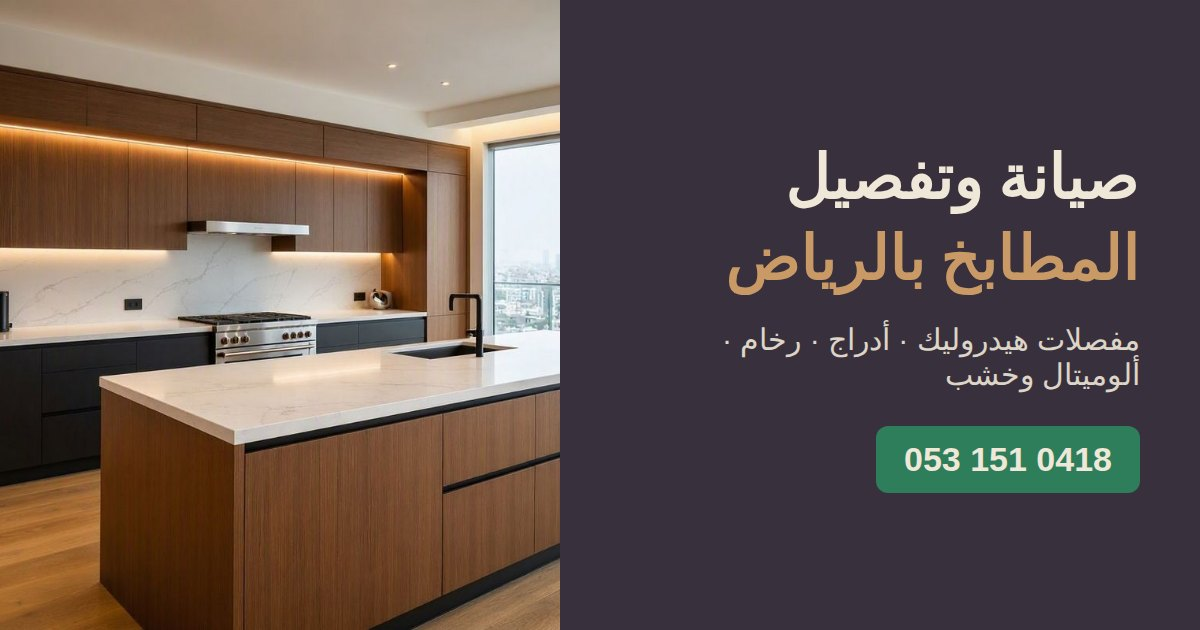
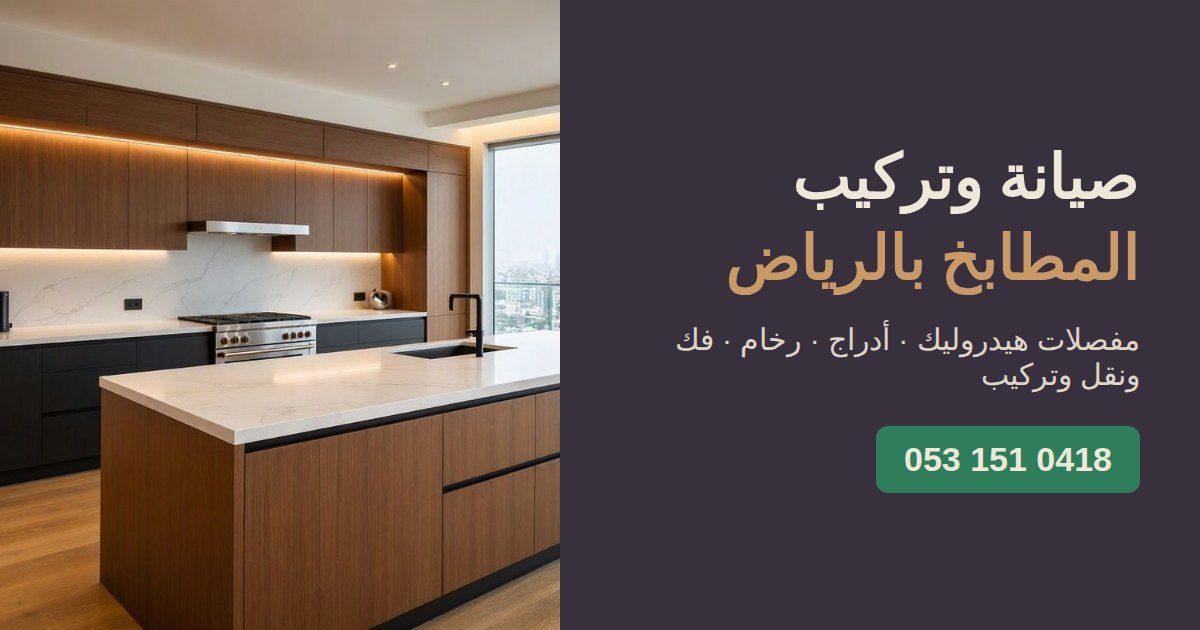
Remove custom kitchen building; focus on maintenance and installation
The business does not offer custom kitchen building. Replace every mention
(title, meta, schema, hero, services, FAQ, footer, OG image) and turn the
custom-building service into a dismantle/move/install service.

Claude-Session: https://claude.ai/code/session_01PCW88oqZVca2CzYH5qtRU7

Changed region(s): [[0.6475, 0.2413, 0.7708, 0.3619], [0.8017, 0.573, 0.9558, 0.6333], [0.555, 0.5127, 0.5858, 0.573]]

diff --git a/index.html b/index.html
@@ -5,11 +5,11 @@
 <meta name="viewport" content="width=device-width, initial-scale=1, viewport-fit=cover">
 
 <!-- SEO Meta Tags -->
-<title>صيانة وتفصيل مطابخ بالرياض | ألمنيوم وخشب – أبو غزل</title>
-<meta name="description" content="فني صيانة وتفصيل مطابخ بالرياض: تصليح الأدراج، مفصلات هيدروليك، صيانة الرخام، وتفصيل مطابخ ألمنيوم وخشب بالمقاس. اتصل 0531510418">
+<title>صيانة وتركيب مطابخ بالرياض | ألمنيوم وخشب – أبو غزل</title>
+<meta name="description" content="فني صيانة وتركيب مطابخ بالرياض: تصليح الأدراج، مفصلات هيدروليك، صيانة الرخام، وفك وتركيب ونقل مطابخ الألمنيوم والخشب. اتصل 0531510418">
 <meta name="author" content="أبو غزل">
 <meta name="copyright" content="© 2026 أبو غزل — جميع الحقوق محفوظة">
-<meta name="keywords" content="أبو غزل مطابخ, صيانة مطابخ بالرياض, تفصيل مطابخ بالرياض, تركيب مطابخ بالرياض, فني مطابخ الرياض, تركيب مفصلات هيدروليك, تصليح أدراج المطابخ, صيانة رخام المطابخ, مطابخ ألوميتال الرياض, مطابخ خشب حسب المقاس, نجار مطابخ الرياض, فك وتركيب مطابخ">
+<meta name="keywords" content="أبو غزل مطابخ, صيانة مطابخ بالرياض, تركيب مطابخ بالرياض, فني مطابخ الرياض, تركيب مفصلات هيدروليك, تصليح أدراج المطابخ, صيانة رخام المطابخ, مطابخ ألوميتال الرياض, صيانة مطابخ ألمنيوم, نقل مطابخ الرياض, نجار مطابخ الرياض, فك وتركيب مطابخ">
 <meta name="robots" content="index, follow, max-image-preview:large">
 <meta name="theme-color" content="#39303E">
 <meta name="geo.region" content="SA-01">
@@ -22,17 +22,17 @@
 <!-- Open Graph / WhatsApp Sharing -->
 <meta property="og:type" content="website">
 <meta property="og:locale" content="ar_SA">
-<meta property="og:site_name" content="أبو غزل — صيانة وتفصيل المطابخ بالرياض">
+<meta property="og:site_name" content="أبو غزل — صيانة وتركيب المطابخ بالرياض">
 <meta property="og:url" content="https://kitch.abads.site/">
-<meta property="og:title" content="صيانة وتفصيل وتركيب المطابخ بالرياض | أبو غزل">
-<meta property="og:description" content="أدراج مكسورة؟ أبواب ساقطة؟ رخام متشقق؟ فني مطابخ متخصص بالرياض لصيانة وتفصيل مطابخ الألوميتال والخشب بمفصلات هيدروليك أصلية.">
+<meta property="og:title" content="صيانة وتركيب المطابخ بالرياض | أبو غزل">
+<meta property="og:description" content="أدراج مكسورة؟ أبواب ساقطة؟ رخام متشقق؟ فني مطابخ متخصص بالرياض لصيانة وتركيب مطابخ الألوميتال والخشب بمفصلات هيدروليك أصلية.">
 <meta property="og:image" content="https://kitch.abads.site/og-image.jpg">
 <meta property="og:image:width" content="1200">
 <meta property="og:image:height" content="630">
-<meta property="og:image:alt" content="صيانة وتفصيل المطابخ بالرياض — أبو غزل 0531510418">
+<meta property="og:image:alt" content="صيانة وتركيب المطابخ بالرياض — أبو غزل 0531510418">
 <meta name="twitter:card" content="summary_large_image">
-<meta name="twitter:title" content="صيانة وتفصيل وتركيب المطابخ بالرياض">
-<meta name="twitter:description" content="فني مطابخ متخصص بالرياض: مفصلات هيدروليك، أدراج، رخام، تفصيل ألوميتال وخشب.">
+<meta name="twitter:title" content="صيانة وتركيب المطابخ بالرياض">
+<meta name="twitter:description" content="فني مطابخ متخصص بالرياض: مفصلات هيدروليك، أدراج، رخام، فك وتركيب مطابخ.">
 <meta name="twitter:image" content="https://kitch.abads.site/og-image.jpg">
 
 <!-- Structured Data (LocalBusiness + Services + FAQ) -->
@@ -43,9 +43,9 @@
     {
       "@type": "HomeAndConstructionBusiness",
       "@id": "https://kitch.abads.site/#business",
-      "name": "أبو غزل — فني تفصيل وتركيب وصيانة المطابخ بالرياض",
+      "name": "أبو غزل — فني صيانة وتركيب المطابخ بالرياض",
       "alternateName": "أبو غزل للمطابخ",
-      "description": "صيانة مطابخ بالرياض، تفصيل مطابخ ألوميتال وخشب حسب المقاس، تركيب مفصلات هيدروليك، تصليح أدراج ورخام المطابخ، وتغيير الأرفف والإكسسوارات.",
+      "description": "صيانة مطابخ الألمنيوم والخشب بالرياض، فك وتركيب ونقل المطابخ، تركيب مفصلات هيدروليك، تصليح أدراج ورخام المطابخ، وتغيير الأرفف والإكسسوارات.",
       "image": [
         "https://kitch.abads.site/og-image.jpg",
         "https://kitch.abads.site/img/kitchen-island-marble.jpg",
@@ -94,9 +94,8 @@
           {"@type": "Offer", "itemOffered": {"@type": "Service", "name": "تركيب وتعديل مفصلات هيدروليك", "description": "استبدال المفصلات التالفة بمفصلات هيدروليك ناعمة الإغلاق وضبط محاذاة الأبواب."}},
           {"@type": "Offer", "itemOffered": {"@type": "Service", "name": "تصليح أدراج المطابخ", "description": "تغيير سحابات ومسارات الأدراج المكسورة بمسارات تلسكوبية وهيدروليك."}},
           {"@type": "Offer", "itemOffered": {"@type": "Service", "name": "صيانة رخام المطابخ", "description": "معالجة الشروخ وتعبئة الفواصل وتلميع وتغيير رخام وجرانيت أسطح المطابخ."}},
-          {"@type": "Offer", "itemOffered": {"@type": "Service", "name": "تفصيل مطابخ ألوميتال وخشب", "description": "تفصيل مطابخ حسب المقاس بخامات ألوميتال وخشب وأكريليك مع التركيب."}},
           {"@type": "Offer", "itemOffered": {"@type": "Service", "name": "تغيير أرفف وإكسسوارات المطابخ", "description": "تركيب أرفف ومقابض وسلال وزوايا ذكية وإنارة ليد داخل الخزائن."}},
-          {"@type": "Offer", "itemOffered": {"@type": "Service", "name": "فك وتركيب ونقل المطابخ", "description": "فك المطبخ وتغليفه ونقله وإعادة تركيبه بين أحياء الرياض."}}
+          {"@type": "Offer", "itemOffered": {"@type": "Service", "name": "فك وتركيب ونقل المطابخ", "description": "فك المطبخ وتغليفه ونقله وإعادة تركيبه بين أحياء الرياض، مع إدخال غسالة الصحون وتركيب الشفاط."}}
         ]
       }
     },
@@ -104,7 +103,7 @@
       "@type": "WebSite",
       "@id": "https://kitch.abads.site/#website",
       "url": "https://kitch.abads.site/",
-      "name": "أبو غزل — صيانة وتفصيل المطابخ بالرياض",
+      "name": "أبو غزل — صيانة وتركيب المطابخ بالرياض",
       "inLanguage": "ar-SA",
       "publisher": {"@id": "https://kitch.abads.site/#business"},
       "copyrightHolder": {"@id": "https://kitch.abads.site/#business"},
@@ -125,8 +124,8 @@
         },
         {
           "@type": "Question",
-          "name": "هل تفصلون مطابخ ألوميتال وخشب حسب المقاس؟",
-          "acceptedAnswer": {"@type": "Answer", "text": "نعم، نأخذ المقاسات في موقعك ونصمم المطبخ بخامات ألوميتال أو خشب أو أكريليك حسب رغبتك وميزانيتك، ثم نركبه كاملاً مع الإكسسوارات."}
+          "name": "هل تفكون المطبخ وتنقلونه وتركبونه في البيت الجديد؟",
+          "acceptedAnswer": {"@type": "Answer", "text": "نعم، نفك المطبخ بعناية ونغلّفه وننقله داخل الرياض، ثم نعيد تركيبه في موقعه الجديد مع ضبط الأبواب والأدراج وتركيب الشفاط وإدخال غسالة الصحون."}
         },
         {
           "@type": "Question",
@@ -895,7 +894,7 @@
   <div class="wrap">
     <div class="brand">
       <svg viewBox="0 0 32 32" aria-hidden="true"><rect x="3" y="5" width="26" height="22" rx="4" fill="#C99A66"/><path d="M3 15h26M16 15v12" stroke="#39303E" stroke-width="2"/><rect x="9" y="9" width="6" height="2" rx="1" fill="#39303E"/><rect x="12" y="19" width="2" height="5" rx="1" fill="#39303E"/><rect x="18" y="19" width="2" height="5" rx="1" fill="#39303E"/></svg>
-      أبو غزل · تفصيل وصيانة المطابخ بالرياض
+      أبو غزل · صيانة وتركيب المطابخ بالرياض
     </div>
     <nav class="contacts" aria-label="التواصل">
       <a class="contact-link" href="tel:+966531510418">
@@ -916,14 +915,14 @@
     <div class="wrap">
       <div>
         <div class="eyebrow"><span class="dot" aria-hidden="true"></span> فني مطابخ متاح اليوم في جميع أحياء الرياض</div>
-        <h1>صيانة وتفصيل وتركيب المطابخ بالرياض — <span>مطبخك يعود أقوى وأجمل من أول زيارة</span></h1>
+        <h1>صيانة وتركيب المطابخ بالرياض — <span>مطبخك يعود أقوى وأجمل من أول زيارة</span></h1>
         <p class="lead">
-          أدراج مكسورة لا تنفتح؟ أبواب خزائن ساقطة أو مفصلات تالفة؟ رخام متشقق أو مطبخ يحتاج تجديداً كاملاً؟ نحن <strong>فنيو صيانة وتفصيل المطابخ بالرياض</strong>، نصلح مطابخ الخشب والألوميتال، ونركب مفصلات ومسارات هيدروليك أصلية، ونفصّل لك مطبخاً جديداً بالمقاس الدقيق لمساحتك.
+          أدراج مكسورة لا تنفتح؟ أبواب خزائن ساقطة أو مفصلات تالفة؟ رخام متشقق أو مطبخ تريد نقله وتركيبه؟ نحن <strong>فنيو صيانة وتركيب المطابخ بالرياض</strong>، نصلح مطابخ الخشب والألوميتال، ونركب مفصلات ومسارات هيدروليك أصلية، ونفك مطبخك وننقله ونركبه باحتراف بدون خدوش.
         </p>
         <ul class="hero-points">
           <li><svg viewBox="0 0 24 24" fill="none" stroke="currentColor" stroke-width="3" aria-hidden="true"><path d="M5 12l5 5L20 7"/></svg>مفصلات هيدروليك أصلية</li>
           <li><svg viewBox="0 0 24 24" fill="none" stroke="currentColor" stroke-width="3" aria-hidden="true"><path d="M5 12l5 5L20 7"/></svg>معاينة وتسعير عبر واتساب</li>
-          <li><svg viewBox="0 0 24 24" fill="none" stroke="currentColor" stroke-width="3" aria-hidden="true"><path d="M5 12l5 5L20 7"/></svg>تفصيل ألوميتال وخشب بالمقاس</li>
+          <li><svg viewBox="0 0 24 24" fill="none" stroke="currentColor" stroke-width="3" aria-hidden="true"><path d="M5 12l5 5L20 7"/></svg>فك وتركيب ونقل المطابخ</li>
           <li><svg viewBox="0 0 24 24" fill="none" stroke="currentColor" stroke-width="3" aria-hidden="true"><path d="M5 12l5 5L20 7"/></svg>قطع غيار أصلية وتركيب بدون خدوش</li>
         </ul>
         <div class="cta-row">
@@ -940,7 +939,7 @@
       <div class="hero-art">
         <picture>
           <source type="image/webp" srcset="img/kitchen-island-marble-640.webp 640w, img/kitchen-island-marble-900.webp 900w, img/kitchen-island-marble-1200.webp 1200w" sizes="(max-width: 900px) 100vw, 560px">
-          <img src="img/kitchen-island-marble.jpg" width="1200" height="800" alt="تفصيل وتركيب مطبخ خشب بجزيرة رخام وإنارة ليد في الرياض" fetchpriority="high">
+          <img src="img/kitchen-island-marble.jpg" width="1200" height="800" alt="صيانة وتركيب مطبخ خشب بجزيرة رخام وإنارة ليد في الرياض" fetchpriority="high">
         </picture>
         <div class="hero-badge" aria-hidden="true"><b>✔</b><span>خبرة طويلة في مطابخ<br>الألمنيوم والخشب</span></div>
       </div>
@@ -960,7 +959,7 @@
         <span class="kicker">من نحن؟</span>
         <h2>فريق فنيين متخصصين في مطابخ الألمنيوم والخشب بخبرة طويلة</h2>
         <p>
-          المطبخ هو قلب البيت، وأي خلل بسيط في درج أو باب يسبب إزعاجاً يومياً. لذلك نحرص في <strong>أبو غزل</strong> على اختيار أفضل المواد والتنفيذ المتقن والاهتمام بكل التفاصيل: من تصميم وتفصيل مطابخ حديثة بالمقاس، إلى صيانتها وتركيبها بطريقة احترافية بدون خدوش.
+          المطبخ هو قلب البيت، وأي خلل بسيط في درج أو باب يسبب إزعاجاً يومياً. لذلك نحرص في <strong>أبو غزل</strong> على اختيار أفضل المواد والتنفيذ المتقن والاهتمام بكل التفاصيل: من صيانة المطابخ وتجديد قطعها، إلى فكها ونقلها وتركيبها بطريقة احترافية بدون خدوش.
         </p>
         <p>
           نعمل بميزان ليزر وقطع غيار أصلية، ونلتزم بالمواعيد، ونختبر كل باب ودرج أمامك قبل التسليم — لتحصل على مطبخ طويل الأمد وبجودة عالية.
@@ -1014,7 +1013,7 @@
     <div class="wrap">
       <div class="head">
         <span class="kicker">خدماتنا الميدانية بالرياض</span>
-        <h2>كل ما يحتاجه مطبخك: صيانة، تفصيل، تركيب، وتجديد</h2>
+        <h2>كل ما يحتاجه مطبخك: صيانة، تركيب، نقل، وتجديد</h2>
       </div>
 
       <div class="svc-row">
@@ -1042,23 +1041,20 @@
         <div class="svc-icon">
           <picture>
           <source type="image/webp" srcset="img/kitchen-black-aluminum-640.webp 640w, img/kitchen-black-aluminum-900.webp 900w, img/kitchen-black-aluminum-1200.webp 1200w" sizes="(max-width: 820px) 100vw, 320px">
-          <img src="img/kitchen-black-aluminum.jpg" width="1200" height="800" alt="تفصيل مطبخ ألمنيوم أسود مطفي مع رخام وإنارة ليد حسب المقاس بالرياض" loading="lazy" decoding="async">
+          <img src="img/kitchen-black-aluminum.jpg" width="1200" height="800" alt="فك وتركيب ونقل مطبخ ألمنيوم أسود مع رخام وإنارة ليد بالرياض" loading="lazy" decoding="async">
         </picture>
         </div>
         <div class="svc-text">
-          <h3>تفصيل مطابخ ألوميتال وخشب حسب المقاس</h3>
-          <p>نأخذ المقاسات في موقعك ونصمم مطبخاً يستغل كل سنتيمتر، بخامات مقاومة للحرارة والرطوبة.</p>
+          <h3>فك وتركيب ونقل المطابخ بالرياض</h3>
+          <p>ننقل مطبخك من بيت لبيت ونركبه في موقعه الجديد كأنه جديد، مع حماية كاملة للقطع والجدران.</p>
           <ul>
-            <li>تفصيل مطابخ ألمنيوم (ألوميتال) حديثة</li>
-            <li>تفصيل مطابخ خشب MDF ومقاوم للماء</li>
-            <li>مطابخ أكريليك ولامي بألوان عصرية</li>
-            <li>فك وتركيب ونقل المطابخ داخل الرياض</li>
+            <li>فك المطابخ الألمنيوم والخشب بعناية</li>
+            <li>تغليف ونقل المطابخ داخل مدينة الرياض</li>
+            <li>إعادة تركيب المطبخ وضبط الأبواب والأدراج</li>
             <li>إدخال غسالة الصحون وتركيب الشفاط</li>
+            <li>تركيب المغسلة والخلاط وتوصيلاتها</li>
             <li>تركيب احترافي بدون خدوش للجدران والأرضيات</li>
           </ul>
-          <div class="chips">
-            <span class="chip">ألوميتال</span><span class="chip">خشب MDF</span><span class="chip">أكريليك</span><span class="chip">لامي</span><span class="chip">رخام</span><span class="chip">جرانيت</span>
-          </div>
         </div>
       </div>
 
@@ -1117,7 +1113,7 @@
       <div class="gallery-showcase">
         <picture>
           <source type="image/webp" srcset="img/kitchen-wood-riyadh-640.webp 640w, img/kitchen-wood-riyadh-900.webp 900w, img/kitchen-wood-riyadh-1200.webp 1200w" sizes="(max-width: 900px) 100vw, 600px">
-          <img src="img/kitchen-wood-riyadh.jpg" width="1200" height="800" alt="مطبخ خشب فاخر مفصل حسب المقاس بخزائن حتى السقف وأفران مدمجة في الرياض" loading="lazy" decoding="async">
+          <img src="img/kitchen-wood-riyadh.jpg" width="1200" height="800" alt="مطبخ خشب فاخر بخزائن حتى السقف وأفران مدمجة بعد الصيانة والتركيب في الرياض" loading="lazy" decoding="async">
         </picture>
         <ul class="highlight-list">
           <li>
@@ -1182,7 +1178,7 @@
     <div class="wrap">
       <div class="head">
         <span class="kicker">الأسئلة الشائعة</span>
-        <h2>أسئلة متكررة عن صيانة وتفصيل المطابخ بالرياض</h2>
+        <h2>أسئلة متكررة عن صيانة وتركيب المطابخ بالرياض</h2>
       </div>
       <div class="faq-list">
         <details>
@@ -1194,8 +1190,8 @@
           <p>نعم، نركب مفصلات هيدروليك ناعمة الإغلاق بمقاسات متوافقة مع أبواب مطبخك، ونضبط محاذاة الأبواب الساقطة والمائلة في نفس الزيارة.</p>
         </details>
         <details>
-          <summary>هل تفصلون مطابخ ألوميتال وخشب حسب المقاس؟</summary>
-          <p>نعم، نأخذ المقاسات في موقعك ونصمم المطبخ بخامات ألوميتال أو خشب أو أكريليك حسب رغبتك وميزانيتك، ثم نركبه كاملاً مع الإكسسوارات.</p>
+          <summary>هل تفكون المطبخ وتنقلونه وتركبونه في البيت الجديد؟</summary>
+          <p>نعم، نفك المطبخ بعناية ونغلّفه وننقله داخل الرياض، ثم نعيد تركيبه في موقعه الجديد مع ضبط الأبواب والأدراج وتركيب الشفاط وإدخال غسالة الصحون.</p>
         </details>
         <details>
           <summary>ما الأحياء التي تغطونها في الرياض؟</summary>
@@ -1213,7 +1209,7 @@
   <section class="section final-cta">
     <div class="wrap">
       <span class="kicker">طلب خدمة فورية في الرياض</span>
-      <h2>جاهزون لصيانة مطبخك أو تفصيل مطبخ جديد اليوم</h2>
+      <h2>جاهزون لصيانة مطبخك أو نقله وتركيبه اليوم</h2>
       <p>اتصل بنا أو أرسل صورة المطبخ على واتساب، وسنوافيك بالسعر والموعد خلال دقائق.</p>
       <div class="cta-row">
         <a class="btn btn-solid" href="tel:+966531510418">تواصل الآن</a>
@@ -1225,7 +1221,7 @@
 
 <footer>
   <div class="wrap">
-    <strong>فني تفصيل وتركيب وصيانة المطابخ</strong> — الرياض، المملكة العربية السعودية
+    <strong>أبو غزل — فني صيانة وتركيب المطابخ</strong> — الرياض، المملكة العربية السعودية
     <div class="foot-line">اتصال وواتساب: <a href="tel:+966531510418" dir="ltr">0531510418</a> · تغطية لجميع أحياء الرياض</div>
     <div class="foot-legal">
       جميع الحقوق محفوظة &copy; 2026 <strong>أبو غزل</strong>. يُمنع نسخ أو نقل أو إعادة نشر نصوص وصور هذه الصفحة أو تصميمها كلياً أو جزئياً دون إذن كتابي مسبق، ويعرّض المخالف للمساءلة وفق نظام حماية حقوق المؤلف في المملكة العربية السعودية.

diff --git a/README.md b/README.md
@@ -1,4 +1,4 @@
-# kitch — صيانة وتفصيل وتركيب المطابخ بالرياض
+# kitch — صيانة وتركيب المطابخ بالرياض
 
 صفحة هبوط ثابتة (HTML/CSS بدون أي أدوات بناء) منشورة على GitHub Pages بالنطاق `https://kitch.abads.site`.
 
